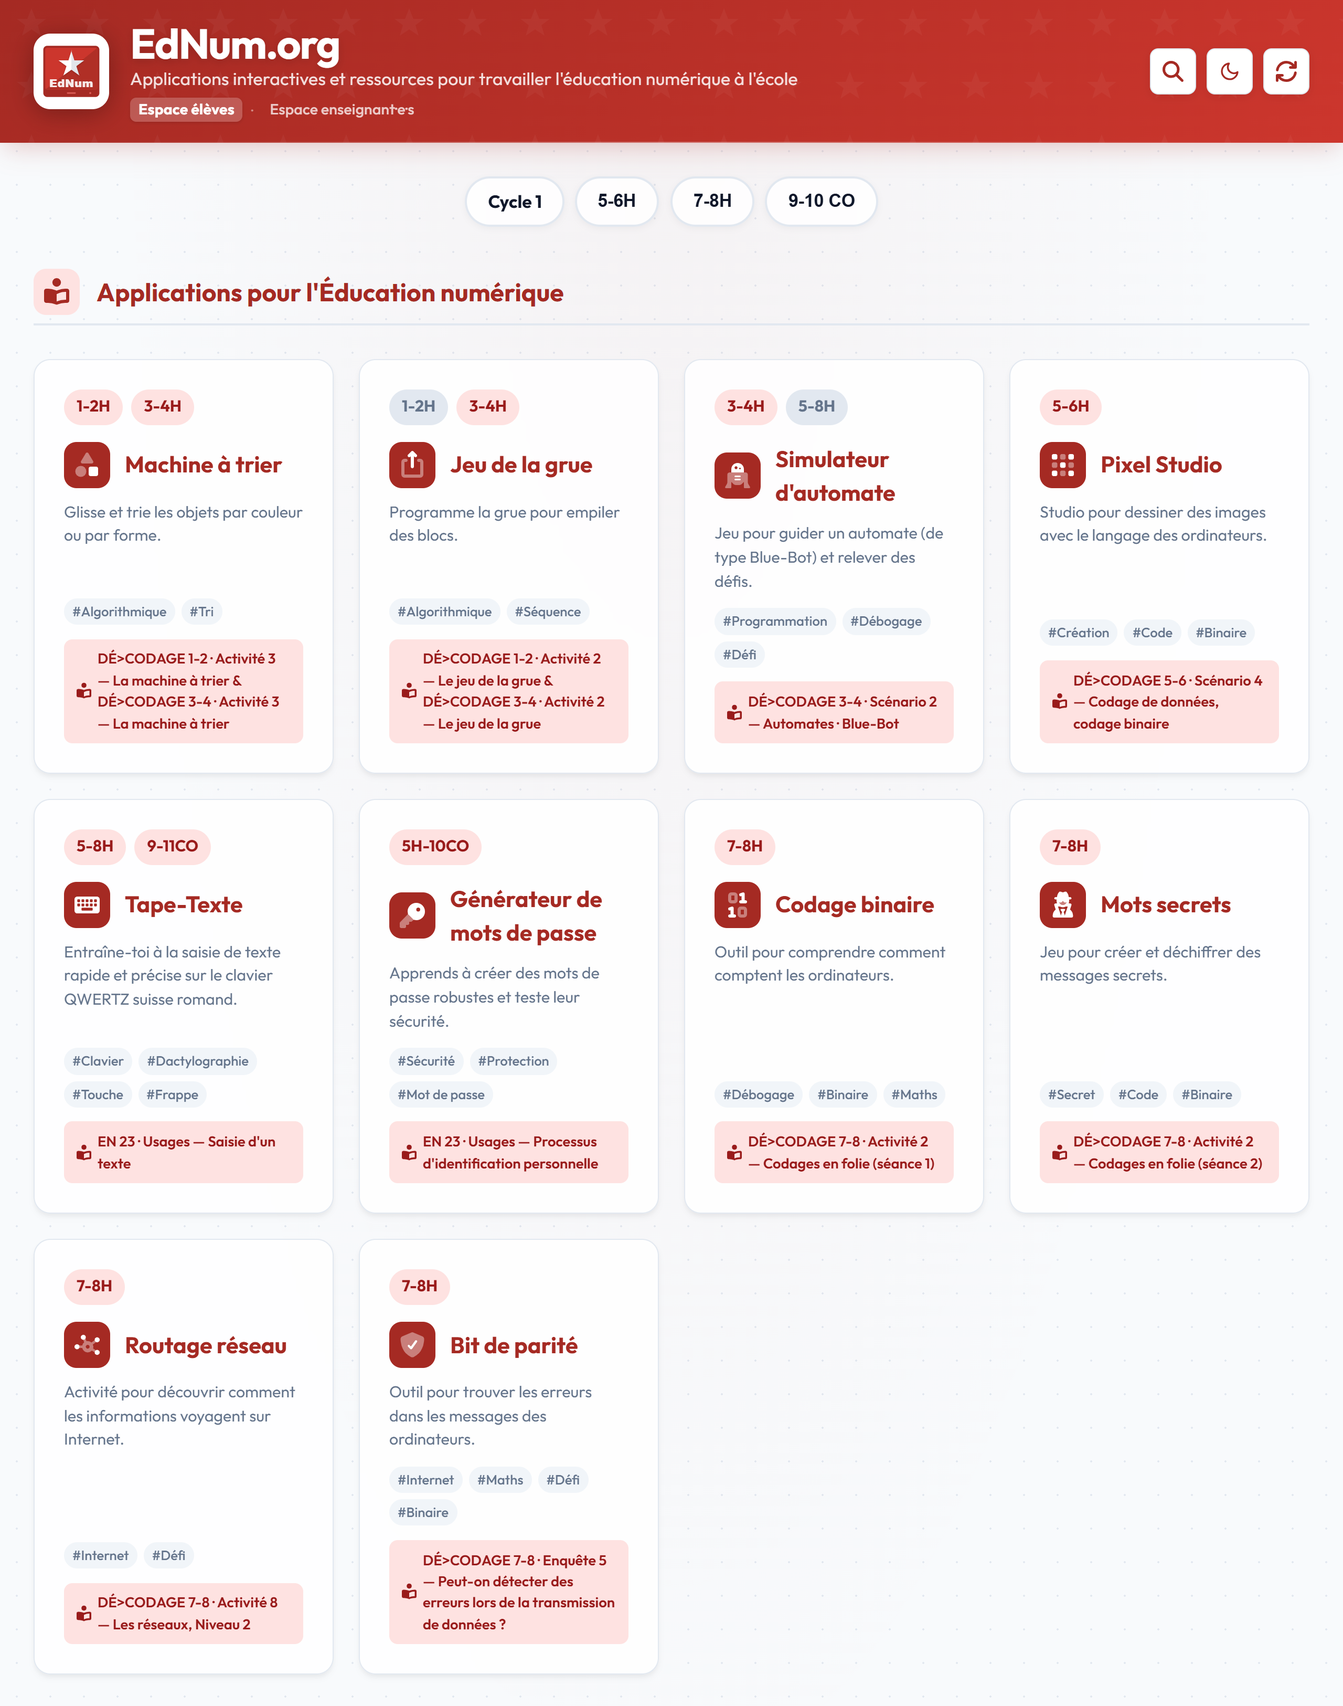
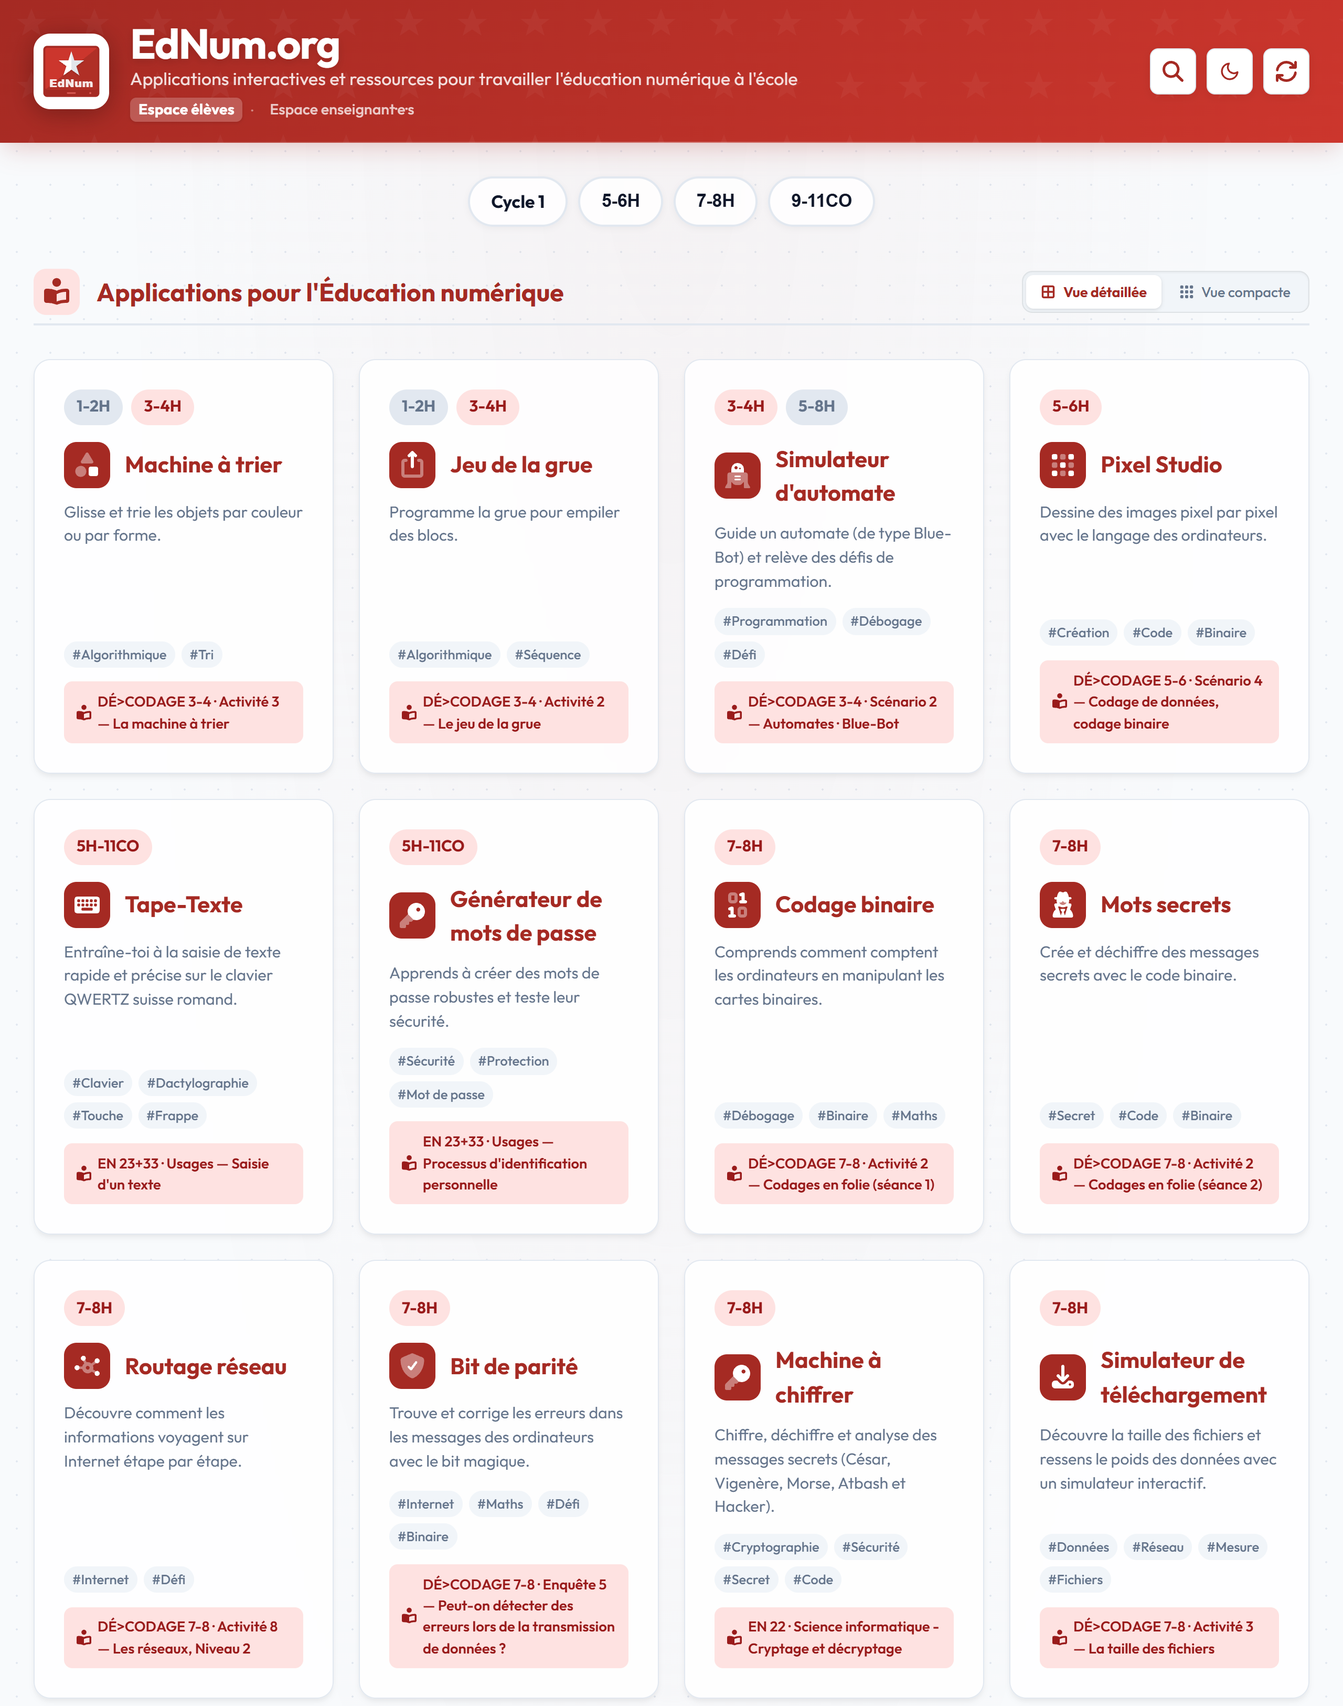
docs(readme): add 10 missing production screenshots, refresh index.png and update alpha/external app lists

diff --git a/meta/scripts/capture-screenshots.js b/meta/scripts/capture-screenshots.js
@@ -294,27 +294,133 @@ async function captureBitDeParite(browser, port) {
   await page.close();
 }
 
+async function captureAutoApp(browser, port, urlPath, outName, setupFn) {
+  const page = await browser.newPage({
+    viewport: { width: 1280, height: 720 },
+    deviceScaleFactor: 2
+  });
+  await page.goto(`http://127.0.0.1:${port}/${urlPath}`, { waitUntil: 'networkidle' });
+  await prepPage(page);
+  if (typeof setupFn === 'function') {
+    await setupFn(page);
+  }
+  await page.waitForTimeout(350);
+
+  const height = await page.evaluate(() => {
+    const shell = document.querySelector('.container, .app-shell, main');
+    const bodyHeight = document.body.scrollHeight;
+    const shellHeight = shell ? shell.getBoundingClientRect().height + 40 : 0;
+    return Math.max(Math.ceil(Math.max(bodyHeight, shellHeight)), 720);
+  });
+
+  await page.setViewportSize({ width: 1280, height });
+  await page.waitForTimeout(150);
+
+  const outPath = path.join(outDir, outName);
+  await page.screenshot({ path: outPath });
+  console.log(`✓ Rendered meta/screenshots/${outName} (2560x${height * 2})`);
+  await page.close();
+}
+
+async function captureMachineATrier(browser, port) {
+  await captureAutoApp(browser, port, 'webapps/machine_a_trier.html', 'machine_a_trier.png');
+}
+
+async function captureJeuDeLaGrue(browser, port) {
+  await captureAutoApp(browser, port, 'webapps/jeu_de_la_grue.html', 'jeu_de_la_grue.png');
+}
+
+async function captureDactylo(browser, port) {
+  await captureAutoApp(browser, port, 'webapps/dactylo.html', 'dactylo.png', async (page) => {
+    await page.evaluate(() => {
+      document.getElementById('btnDismissTouchNotice')?.click();
+      document.getElementById('btnToggleKeyboard')?.click();
+    });
+  });
+}
+
+async function captureCalculatriceBinaire(browser, port) {
+  await captureAutoApp(browser, port, 'webapps/calculatrice_binaire.html', 'calculatrice_binaire.png', async (page) => {
+    await page.evaluate(() => {
+      if (window.CalculatriceBinaire && typeof window.CalculatriceBinaire.setDecimalValue === 'function') {
+        window.CalculatriceBinaire.setDecimalValue(42);
+      }
+    });
+  });
+}
+
+async function captureMachineAChiffrer(browser, port) {
+  await captureAutoApp(browser, port, 'webapps/machine_a_chiffrer.html', 'machine_a_chiffrer.png', async (page) => {
+    await page.fill('#input-clear', 'BONJOUR VALAIS !');
+  });
+}
+
+async function captureSimulateurTelechargement(browser, port) {
+  await captureAutoApp(browser, port, 'webapps/simulateur_telechargement.html', 'simulateur_telechargement.png');
+}
+
+async function captureRoueDeLaChance(browser, port) {
+  await captureAutoApp(browser, port, 'webapps/teacher/roue_de_la_chance.html', 'roue_de_la_chance.png');
+}
+
+async function captureQrcode(browser, port) {
+  await captureAutoApp(browser, port, 'webapps/teacher/qrcode.html', 'qrcode.png');
+}
+
+async function captureTimeTimer(browser, port) {
+  await captureAutoApp(browser, port, 'webapps/teacher/time_timer.html', 'time_timer.png');
+}
+
+async function captureSimDyslexie(browser, port) {
+  await captureAutoApp(browser, port, 'webapps/teacher/sim_dyslexie.html', 'sim_dyslexie.png', async (page) => {
+    await page.click('#compGraphemes');
+    await page.click('#compSilentLetters');
+  });
+}
+
 async function main() {
+  const onlyMissing = process.argv.includes('--missing');
   const port = 8125;
   const server = await startServer(port);
   console.log(`Screenshot server running on http://127.0.0.1:${port}`);
 
   const browser = await chromium.launch({ channel: 'msedge', headless: true });
 
-  await captureIndex(browser, port);
-  await captureTirage(browser, port);
-  await captureBareme(browser, port);
-  await capturePasswordGen(browser, port);
-  await captureAutomate(browser, port);
-  await captureBinaireStudio(browser, port);
-  await captureBinaireCodage(browser, port);
-  await captureBinaireMessage(browser, port);
-  await captureRoutageReseau(browser, port);
-  await captureBitDeParite(browser, port);
+  const allTasks = [
+    { name: 'index.png', fn: () => captureIndex(browser, port) },
+    { name: 'tirage.png', fn: () => captureTirage(browser, port) },
+    { name: 'bareme.png', fn: () => captureBareme(browser, port) },
+    { name: 'generateur_mot_de_passe.png', fn: () => capturePasswordGen(browser, port) },
+    { name: 'simulateur_automate.png', fn: () => captureAutomate(browser, port) },
+    { name: 'binaire_studio.png', fn: () => captureBinaireStudio(browser, port) },
+    { name: 'binaire_codage.png', fn: () => captureBinaireCodage(browser, port) },
+    { name: 'binaire_message.png', fn: () => captureBinaireMessage(browser, port) },
+    { name: 'routage_reseau.png', fn: () => captureRoutageReseau(browser, port) },
+    { name: 'bit_de_parite.png', fn: () => captureBitDeParite(browser, port) },
+    { name: 'machine_a_trier.png', fn: () => captureMachineATrier(browser, port) },
+    { name: 'jeu_de_la_grue.png', fn: () => captureJeuDeLaGrue(browser, port) },
+    { name: 'dactylo.png', fn: () => captureDactylo(browser, port) },
+    { name: 'calculatrice_binaire.png', fn: () => captureCalculatriceBinaire(browser, port) },
+    { name: 'machine_a_chiffrer.png', fn: () => captureMachineAChiffrer(browser, port) },
+    { name: 'simulateur_telechargement.png', fn: () => captureSimulateurTelechargement(browser, port) },
+    { name: 'roue_de_la_chance.png', fn: () => captureRoueDeLaChance(browser, port) },
+    { name: 'qrcode.png', fn: () => captureQrcode(browser, port) },
+    { name: 'time_timer.png', fn: () => captureTimeTimer(browser, port) },
+    { name: 'sim_dyslexie.png', fn: () => captureSimDyslexie(browser, port) }
+  ];
+
+  let count = 0;
+  for (const task of allTasks) {
+    if (onlyMissing && fs.existsSync(path.join(outDir, task.name))) {
+      continue;
+    }
+    await task.fn();
+    count++;
+  }
 
   await browser.close();
   server.close();
-  console.log('🎉 All 12 documentation screenshots successfully updated in meta/screenshots/');
+  console.log(`🎉 ${count} documentation screenshot(s) successfully updated in meta/screenshots/`);
 }
 
 main().catch(err => {

diff --git a/README.md b/README.md
@@ -49,17 +49,19 @@ Voici un exemple avec le simulateur d'automate, prouvant la compatibilité sur d
 
 ### 🎮 Nos Webapps pour les élèves (Jeux pédagogiques)
 
-Toutes nos applications intègrent une interface unifiée (design "Glassmorphism" moderne), un mode clair/sombre/contraste élevé, une difficulté adaptative intelligente, et des graphiques circulaires pour visualiser les progrès. L'application portail d'accueil (`index.html`) permet un accès facile et rapide à chaque outil. Pour les plus jeunes (4-7 ans, Cycle 1), un portail simplifié est également disponible (`indexC1.html`). Les activités sont classées par ordre de progression scolaire (1-4H jusqu'à 9-11CO).
+Toutes nos applications intègrent une interface unifiée (design "Glassmorphism" moderne), un mode clair/sombre/contraste élevé, une difficulté adaptative intelligente, et des graphiques circulaires pour visualiser les progrès. L'application portail d'accueil (`index.html`) permet un accès facile et rapide à chaque outil. Pour les plus jeunes (4-7 ans, Cycle 1), un portail simplifié est également disponible (`indexC1.html`). Les activités sont classées par ordre de progression scolaire (`1-4H` jusqu'en `10CO` pour l'éducation numérique, et jusqu'en `11CO` pour les outils d'usages).
 
 ![Portail d'accueil](meta/screenshots/index.png)
 
 #### 1. Machine à trier (`webapps/machine_a_trier.html` - 1-2H & 3-4H)
+![Machine à trier](meta/screenshots/machine_a_trier.png)
 - **À quoi sert l'outil :** Initiation aux algorithmes de tri et à la classification logique d'objets selon divers critères (forme, couleur, taille, quantité) via une bande transporteuse et des bacs récepteurs. [Mode d'emploi détaillé](meta/tuto/MODE_EMPLOI_MACHINE_A_TRIER.md).
 - **Lien DÉ>CODAGE :** [3-4e](https://decodage.edu-vd.ch/3-4/) · Tri et classification (Demi-cycle 3-4H).
 - **Fonctionnalités :** 2 modes (*Classique* et *Usine* avec tapis roulant interactif), 3 niveaux de difficulté (Facile, Moyen, Difficile) et rétroaction immédiate.
 - **Valeur pédagogique :** Développe la catégorisation d'éléments, la discrimination visuelle et l'assimilation des règles algorithmiques de tri sans écran individuel requis pour les plus jeunes.
 
-#### 2. Jeu de la grue (`webapps/jeu_de_la_grue.html` - 3-4H)
+#### 2. Jeu de la grue (`webapps/jeu_de_la_grue.html` - 1-2H & 3-4H)
+![Jeu de la grue](meta/screenshots/jeu_de_la_grue.png)
 - **À quoi sert l'outil :** Initiation à la programmation séquentielle avec une grue mécanique déplaçant des cubes de couleur vers un objectif cible. [Mode d'emploi détaillé](meta/tuto/MODE_EMPLOI_JEU_DE_LA_GRUE.md).
 - **Lien DÉ>CODAGE :** [3-4e](https://decodage.edu-vd.ch/3-4/) · **Scénario 2 — Automates** (Demi-cycle 3-4H).
 - **Fonctionnalités :** Interface épurée avec 3 commandes simples (Gauche, Action attraper/poser, Droite), ruban d'instructions modifiable, exécution pas à pas et 3 niveaux de difficulté (1 à 3 cubes).
@@ -80,6 +82,7 @@ Toutes nos applications intègrent une interface unifiée (design "Glassmorphism
 - **Valeur pédagogique :** Matérialise le concept abstrait de "numérisation". Comprendre que l'information visuelle (pixels) se traduit en séquences binaires de 0 et de 1.
 
 #### 5. Tape-Texte (`webapps/dactylo.html` - 5H-11CO)
+![Tape-Texte](meta/screenshots/dactylo.png)
 - **À quoi sert l'outil :** Entraînement progressif à la frappe rapide et fluide sur clavier physique avec disposition suisse romande et suisse allemande (QWERTZ). [Mode d'emploi détaillé](meta/tuto/MODE_EMPLOI_DACTYLO.md).
 - **Lien PER & Lehrplan 21 :** Cycle 2 & Cycle 3 (dès 5H jusqu'au secondaire I / 11CO).
 - **Fonctionnalités :** 10 niveaux pédagogiques progressifs adaptés à la Suisse (phrases types, cédilles et accents, caractères spéciaux `LEVELS_DE` en allemand), clavier virtuel d'aide visuelle en cas d'erreur, analyse en temps réel (précision %, vitesse MPM/WPM, touches à travailler) et bilan élève exportable en PNG.
@@ -117,22 +120,29 @@ Toutes nos applications intègrent une interface unifiée (design "Glassmorphism
 - **Valeur pédagogique :** Initie à l'intégrité de la donnée via des métadonnées (le bit de parité) et développe le repérage spatial via des coordonnées sur une grille.
 
 #### 11. Calculatrice binaire (`webapps/calculatrice_binaire.html` - 7H-10CO)
+![Calculatrice binaire](meta/screenshots/calculatrice_binaire.png)
 - **À quoi sert l'outil :** Convertisseur et explorateur interactif permettant de comprendre et décomposer facilement un octet (8 bits, valeurs de 0 à 255) entre le système binaire et décimal. [Mode d'emploi détaillé](meta/tuto/MODE_EMPLOI_CALCULATRICE_BINAIRE.md).
 - **Lien PER & Lehrplan 21 :** Cycle 2 & Cycle 3 (dès 7H jusqu'en 10CO) · **EN 22+32 · Science informatique — Codage en système binaire** (Connected 1 · 1.2 / Décodages 7-8).
 - **Fonctionnalités :** Tableau interactif sur 8 bits ordonné selon les 3 rangées pédagogiques (Bits, Puissances de 2 de $2^7$ à $2^0$, Valeurs de position de 128 à 1), bascule directe des bits ou des valeurs au clic, synchronisation bidirectionnelle instantanée avec le champ décimal (0 à 255), calcul explicatif de la somme décomposée en direct, affichage binaire formaté par demi-octets (nibbles) avec bouton de copie, et bouton de remise à zéro rapide.
 - **Valeur pédagogique :** Démystifie le fonctionnement interne des ordinateurs en visualisant le lien direct entre l'état binaire (0/1), la valeur pondérée de chaque rang et la somme décimale totale. Idéal pour l'expérimentation libre, la vérification de calculs ou l'introduction au système binaire en classe.
 
 #### 12. Machine à chiffrer (`webapps/machine_a_chiffrer.html` - 7-8H)
+![Machine à chiffrer](meta/screenshots/machine_a_chiffrer.png)
 - **À quoi sert l'outil :** Outil interactif d'initiation à la cryptographie pour chiffrer et déchiffrer des messages secrets grâce à 5 modes d'exploration : Code César (avec roue cryptographique animée), Code Vigenère (chiffrement polyalphabétique avec mot-clé), Atbash (inversion miroir de l'alphabet), Code Morse (signaux textuels et bips sonores en Web Audio API) et Mode Hacker (interception de messages secrets et analyse fréquentielle des lettres de la langue française). [Mode d'emploi détaillé](meta/tuto/MODE_EMPLOI_MACHINE_A_CHIFFRER.md).
 - **Lien PER & Lehrplan 21 :** Cycle 2 (7-8H) · **EN 22 · Science informatique - Cryptage et décryptage** (Connected 1 · 1.2 / Décodages 7-8).
 - **Valeur pédagogique :** Démystifie la cryptographie classique, illustre le passage de l'information sous formes codées et développe l'esprit d'analyse par l'étude des fréquences et des clés de décalage.
 
 #### 13. Simulateur de téléchargement (`webapps/simulateur_telechargement.html` - 7-8H)
+![Simulateur de téléchargement](meta/screenshots/simulateur_telechargement.png)
 - **À quoi sert l'outil :** Simulation visuelle interactive pour appréhender concrètement la taille des fichiers numériques et le débit des réseaux à travers deux modes : *Défi des 4 médias* (estimer et ordonner la vitesse de téléchargement d'un texte, d'une image, d'un fichier audio et d'une vidéo sans voir leur débit) et *Laboratoire* (manipulation libre de 9 objets numériques concrets sur 4 technologies de connexion : Modem 56k, 3G, 4G et Fibre optique). [Mode d'emploi détaillé](meta/tuto/MODE_EMPLOI_SIMULATEUR_TELECHARGEMENT.md).
 - **Lien DÉ>CODAGE :** [7-8e](https://decodage.edu-vd.ch/7-8/) · **Activité 3 — La taille des fichiers** (Demi-cycle 7-8H).
 - **Valeur pédagogique :** Fait ressentir physiquement le « poids » des données numériques, ancre la compréhension des unités de mesure (octet, Ko, Mo, Go) et sensibilise aux réalités physiques de l'infrastructure réseau.
 
 #### 🌐 Ressources externes partenaires
+- **Qwant Junior** ([Ouvrir Qwant Junior](https://www.qwantjunior.com/) - 4H-8H) : Le moteur de recherche sécurisé pour les enfants qui respecte la vie privée.
+- **ia-pedia** ([Ouvrir ia-pedia](https://ia-pedia.ch/) - 5H-10CO) : Simplifie les articles de Wikipédia au niveau des élèves et répond à leurs questions.
+- **Le Dico des Ados** ([Ouvrir Le Dico des Ados](https://fr.dicoado.org/dico/Dico:Accueil) - 5H-10CO) : Un dictionnaire libre et collaboratif pour chercher et enrichir des définitions.
+- **Scratch** ([Ouvrir Scratch](https://scratch.mit.edu/projects/editor/) - 7H-10CO) : Plateforme visuelle pour créer des histoires interactives, des jeux et des animations.
 - **Totem** ([Ouvrir Totem](https://guillaumetschupp.com/outils/totem/app.html) - 7H-10CO) : Un faux test de personnalité ludique et surprenant pour aiguiser l'esprit critique des élèves face aux pièges ordinaires du web et à la collecte de données (bilingue FR/DE, 100% exécuté localement dans le navigateur).
 
 
@@ -148,25 +158,36 @@ Un petit utilitaire sans publicité permettant de générer instantanément un b
 Outil visuel pour désigner un·e élève au hasard. Gère l'importation de listes de classe (XLS/XLSX, CSV, ENT) et l'exportation, la sauvegarde automatique (`localStorage`), l'exclusion d'élèves (absents) et conserve l'historique des tirages. [Mode d'emploi détaillé](meta/tuto/MODE_EMPLOI_TIRAGE_AU_SORT.md).
 
 #### Roue de la chance (`webapps/teacher/roue_de_la_chance.html`)
+![Roue de la chance](meta/screenshots/roue_de_la_chance.png)
 Roue interactive personnalisable pour le tirage au sort en classe, l'attribution des rôles, les privilèges ou les questions d'éducation numérique. Gestion des listes personnelles (`localStorage`), présélections intégrées, générateur 1 à N et mode plein écran adapté aux TBI/TNI. [Mode d'emploi détaillé](meta/tuto/MODE_EMPLOI_ROUE_DE_LA_CHANCE.md).
 
 #### Créateur de QR codes (`webapps/teacher/qrcode.html`)
+![Créateur de QR codes](meta/screenshots/qrcode.png)
 Générateur sobre et rapide de QR codes pour la classe (liens, textes, Wi-Fi, fiches et planches imprimables, projection TBI, téléchargement HD et copie presse-papier). [Mode d'emploi détaillé](meta/tuto/MODE_EMPLOI_QRCODE.md).
 
 #### Minuteur visuel (Time-Timer) (`webapps/teacher/time_timer.html`)
+![Minuteur visuel (Time-Timer)](meta/screenshots/time_timer.png)
 Compte à rebours visuel de 60 minutes avec disque coloré paramétrable, réglage fluide au glisser-déposer, raccourcis d'activités prédéfinis, carillons sonores (Web Audio API sans ressource externe) et modes plein écran / projection TBI pour structurer le temps en classe. [Mode d'emploi détaillé](meta/tuto/MODE_EMPLOI_TIME_TIMER.md).
 
 #### Adaptateur & Simulateur DYS (`webapps/teacher/sim_dyslexie.html`)
+![Adaptateur & Simulateur DYS](meta/screenshots/sim_dyslexie.png)
 Boîte à outils d'adaptation de textes scolaires (espacement Zorzi, coloration CERAS, syllabes bicolores, lettres muettes grisées, polices adaptées comme OpenDyslexic ou Century Gothic, profils enregistrables, export Word .docx et impression A4) et simulateur de sensibilisation cognitive aux difficultés de lecture. [Mode d'emploi détaillé](meta/tuto/MODE_EMPLOI_SIMULATEUR_DYSLEXIE.md).
 
 ### 🧪 Applications en avant-première (Dossier `alpha/`)
 - 🔒 **Coffre-fort numérique** (`alpha/webapps/coffre_fort.html`, 3-6H)
+- 🍕 **La Fabrique de Recettes** (`alpha/webapps/fabrique_recette.html`, 3-5H)
 - 🔀 **Réseau de tri** (`alpha/webapps/reseau_de_tri.html`, 5-6H)
+- 🪙 **Le Rendu de Monnaie** (`alpha/webapps/rendu_monnaie.html`, 5-8H)
+- 🔍 **Chasseur d'Infox** (`alpha/webapps/chasseur_infox.html`, 6H-10CO)
 - ⚡ **Compresseur magique (RLE)** (`alpha/webapps/compresseur_magique.html`, 7-8H)
 - 🧠 **Dresseur de neurones** (`alpha/webapps/dresseur_neurones.html`, 7-8H)
-- 💻 **Pseudo-code** (`alpha/webapps/apprendre_pseudocode.html`, 9CO)
 - 🌐 **Simulateur Réseau & DNS** (`alpha/webapps/simulateur_reseau_dns.html`, 7-8H)
+- 🏔 **Le Réseau des Villages** (`alpha/webapps/reseau_villages.html`, 7-8H, 9-10CO)
+- 🫧 **La Bulle de Filtres** (`alpha/webapps/bulle_filtres.html`, 8H-10CO)
+- 💻 **Pseudo-code** (`alpha/webapps/apprendre_pseudocode.html`, 9CO)
+- ⚙ **L'Atelier des Portes Logiques** (`alpha/webapps/portes_logiques.html`, 9-10CO)
 - 🛡 **Anonymiseur de textes** (`alpha/webapps/teacher/anonymiseur.html`, Enseignant)
+- 👥 **Créateur de Groupes & Équipes** (`alpha/webapps/teacher/createur_groupes.html`, Enseignant)
 
 
 ---
@@ -184,6 +205,7 @@ We have made the radical choice of **100% Vanilla**. No React, no Tailwind, no n
     *   Scores and Gamification: `assets/js/scores.js` (ScoreManager).
     *   Sounds (Web Audio API): `assets/js/audio.js` (no external .mp3 files).
     *   Toasts & Particles: `assets/js/toast.js` and `assets/js/confetti.js`.
+    *   Internationalization (`FR` / `de-CH`): `assets/js/i18n.js` and `assets/js/i18n/de.js`.
     *   Class Roster Importer: `assets/js/roster-import.js` (Swiss ENT/ISM, Excel, CSV, TSV).
 *   **Vector Icons (FontAwesome):** We use **FontAwesome 7 Pro (Solid & Duotone)**. Instead of loading a huge font file, a Node.js script (`meta/scripts/generate_fa_subset.js`) parses the HTML and dynamically generates `assets/js/fa-subset.js` (under 20kb!).
 

diff --git a/meta/memory/event-log.md b/meta/memory/event-log.md
@@ -109,3 +109,4 @@
 - **[2026-11-24]** [Docs] Pruned obsolete tutorial files for non-production webapps from meta/tuto.
 - **[2026-11-24]** [Alpha/Apps] Created 7 new pedagogical webapps (#1 Rendu de monnaie, #3 Fabrique de recettes, #5 Portes logiques, #6 Réseau des villages, #7 Chasseur d'infox, #8 Bulle de filtres, #10 Créateur de groupes) with dedicated unit tests and 100% offline compliance.
 - **[2026-11-26]** [Curriculum] Restricted 11CO scope strictly to Usages tools (Tape-Texte, Générateur de mots de passe) and capped Media/CS apps at 10CO (`7H-10CO`, `8H-10CO`, `9-10CO`).
+- **[2026-11-26]** [Docs/Media] Captured 10 missing production app screenshots (+ refreshed `index.png`), extended `capture-screenshots.js`, and synchronized `README.md`.
